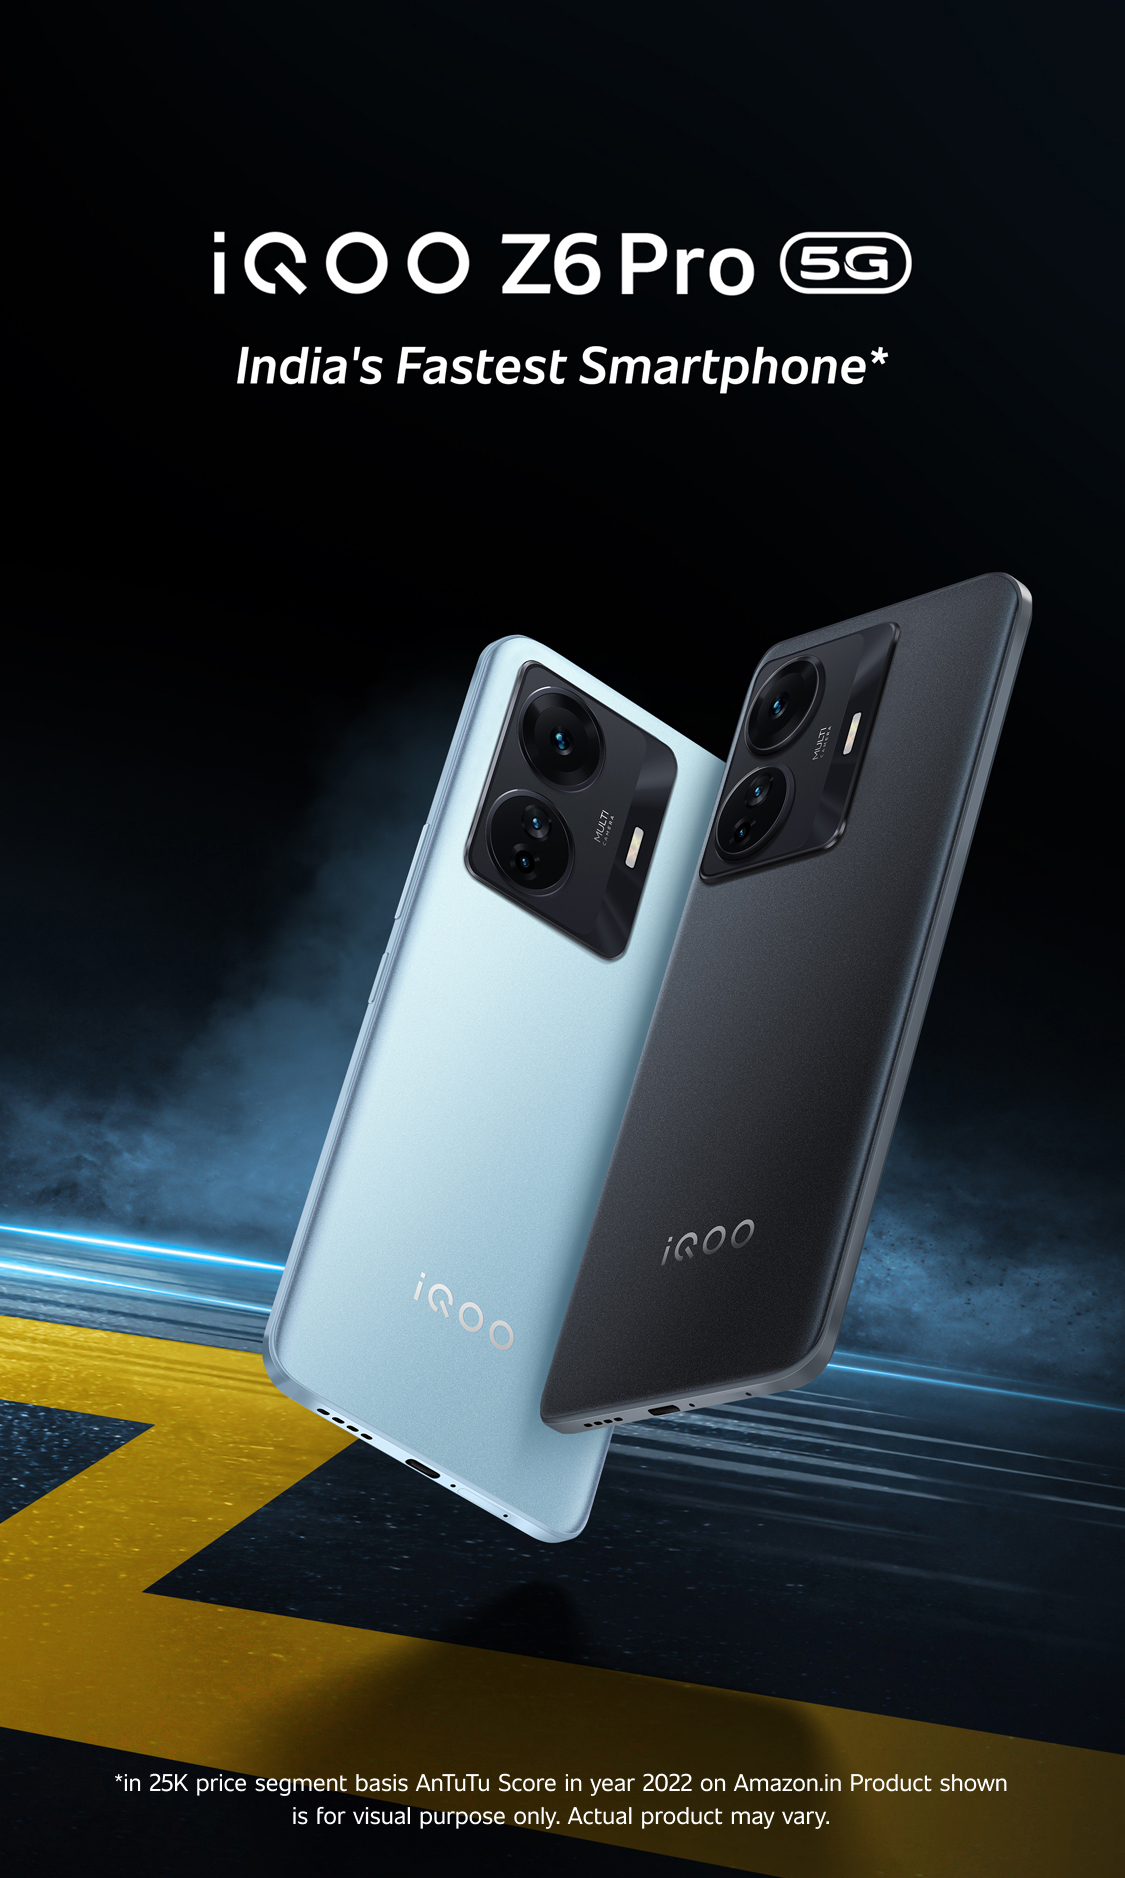
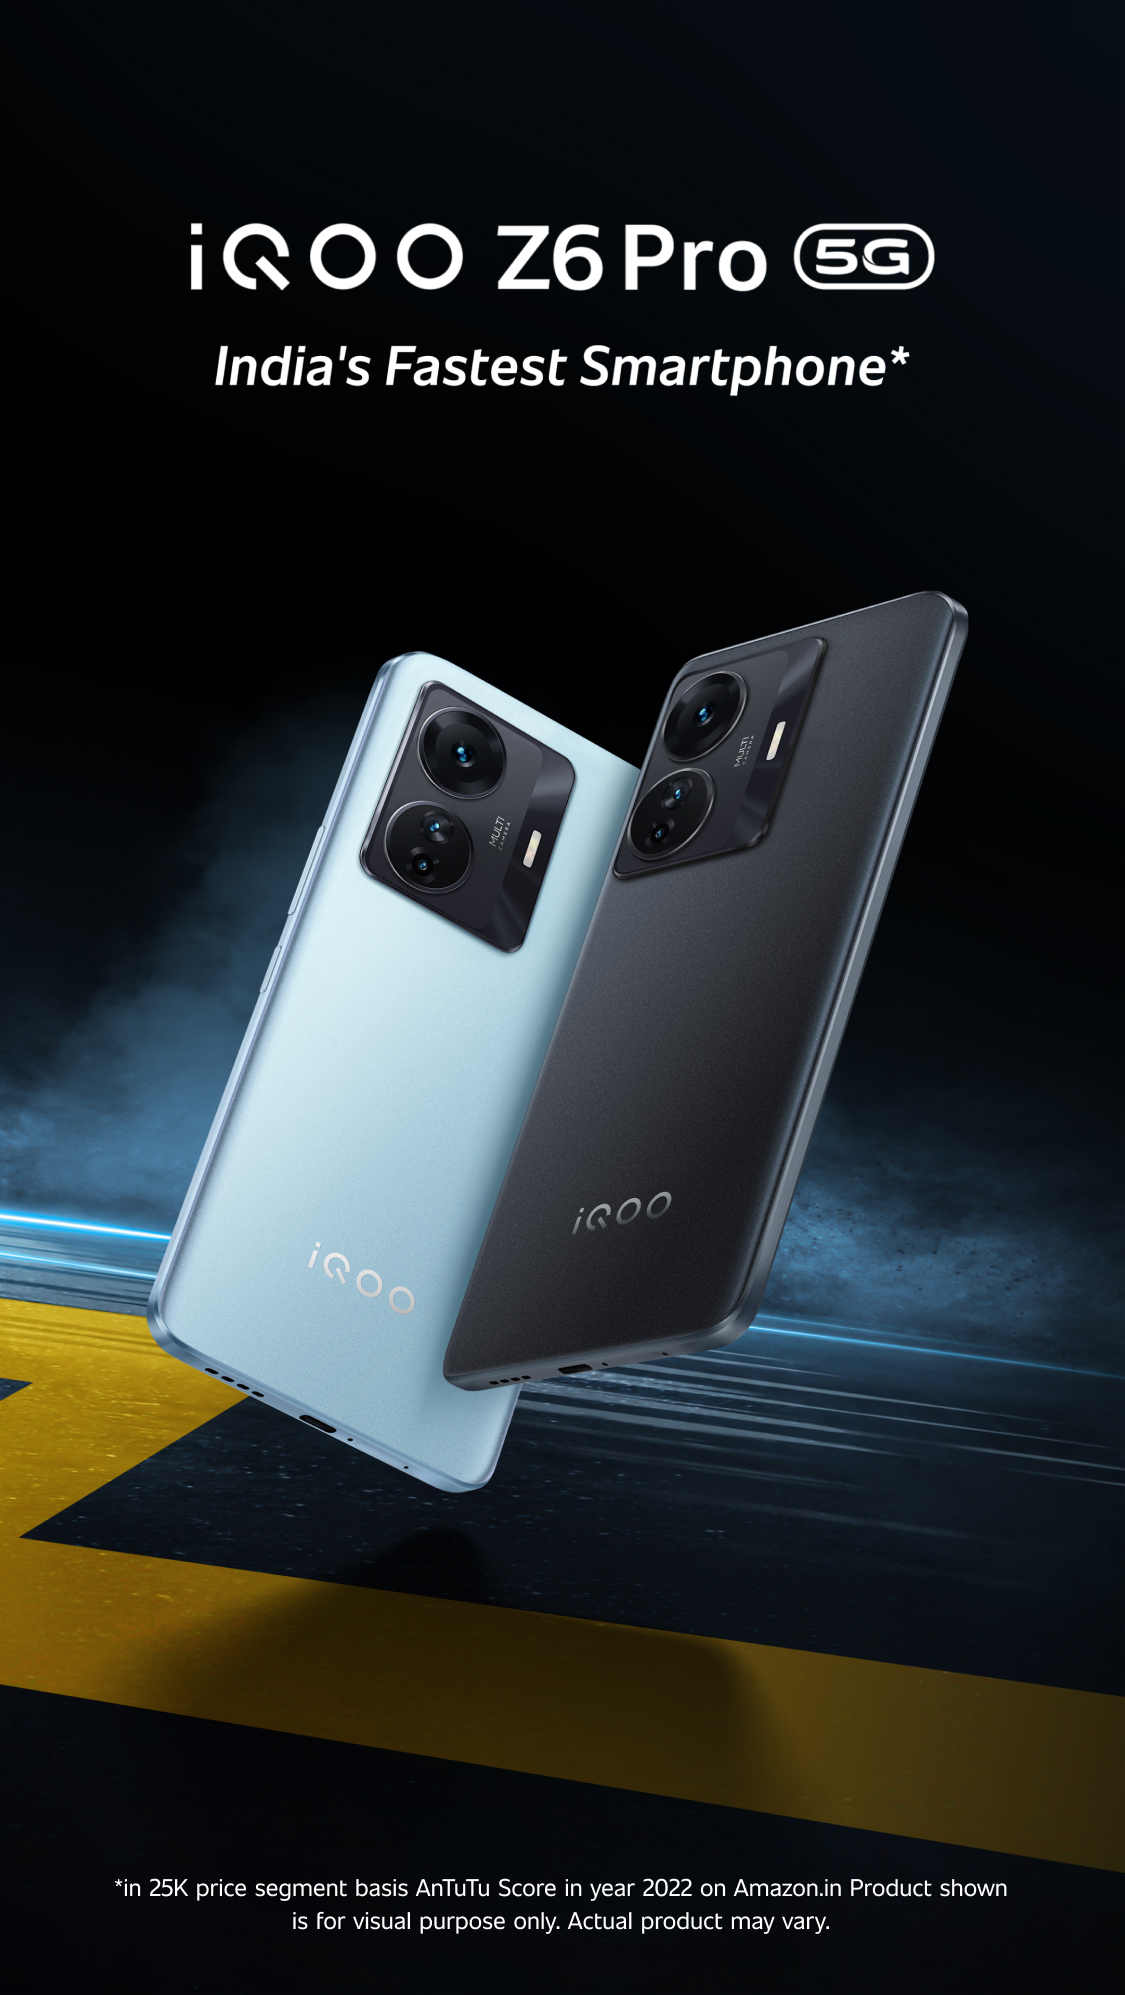
update

diff --git a/WIFJIiwNioJW/zip/css/app.css b/WIFJIiwNioJW/zip/css/app.css
@@ -2319,7 +2319,7 @@
 
   .product-z6-kv .product-z6-kv-img {
     width: 100%;
-    padding-bottom: 167%;
+    padding-bottom: 177.3%;
     -o-background-size: 100% auto;
        background-size: 100% auto;
     height: 0;

diff --git a/dwJHhUftet/zip/css/app.css b/dwJHhUftet/zip/css/app.css
@@ -655,7 +655,7 @@
 
   .product-z6-kv .product-z6-kv-img {
     width: 100%;
-    padding-bottom: 167%;
+    padding-bottom: 177.3%;
     -o-background-size: 100% auto;
        background-size: 100% auto;
     height: 0;
